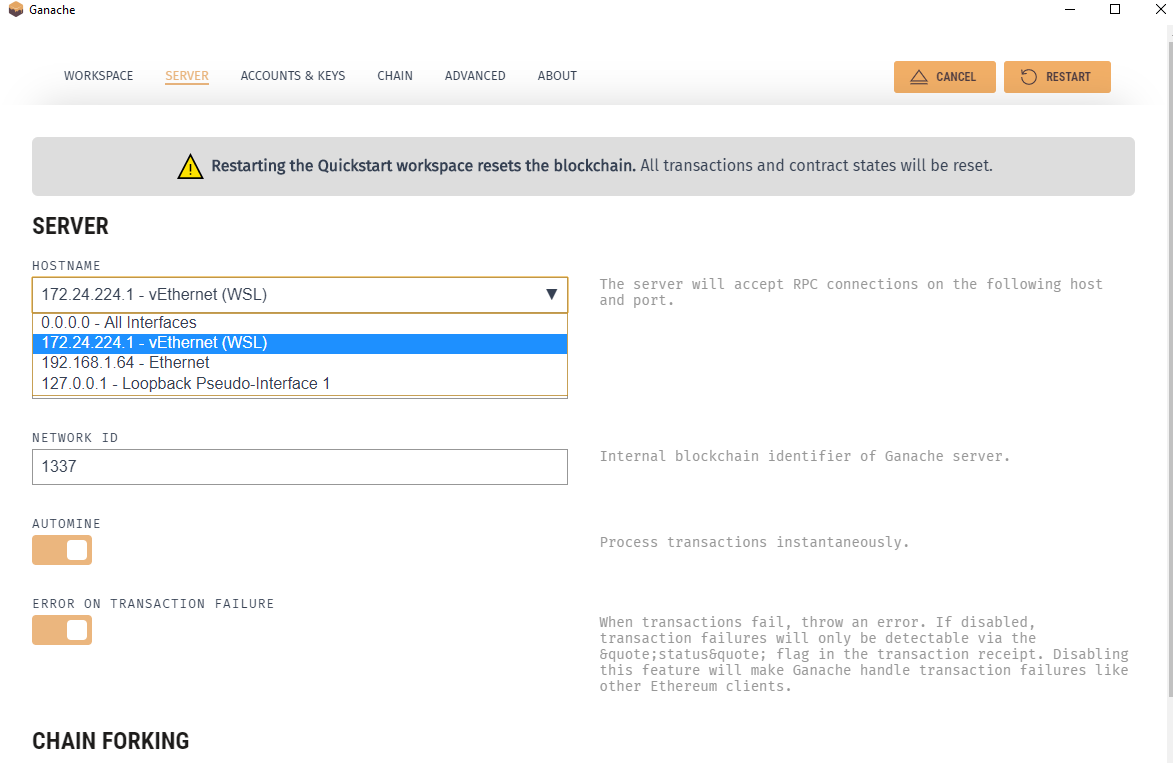
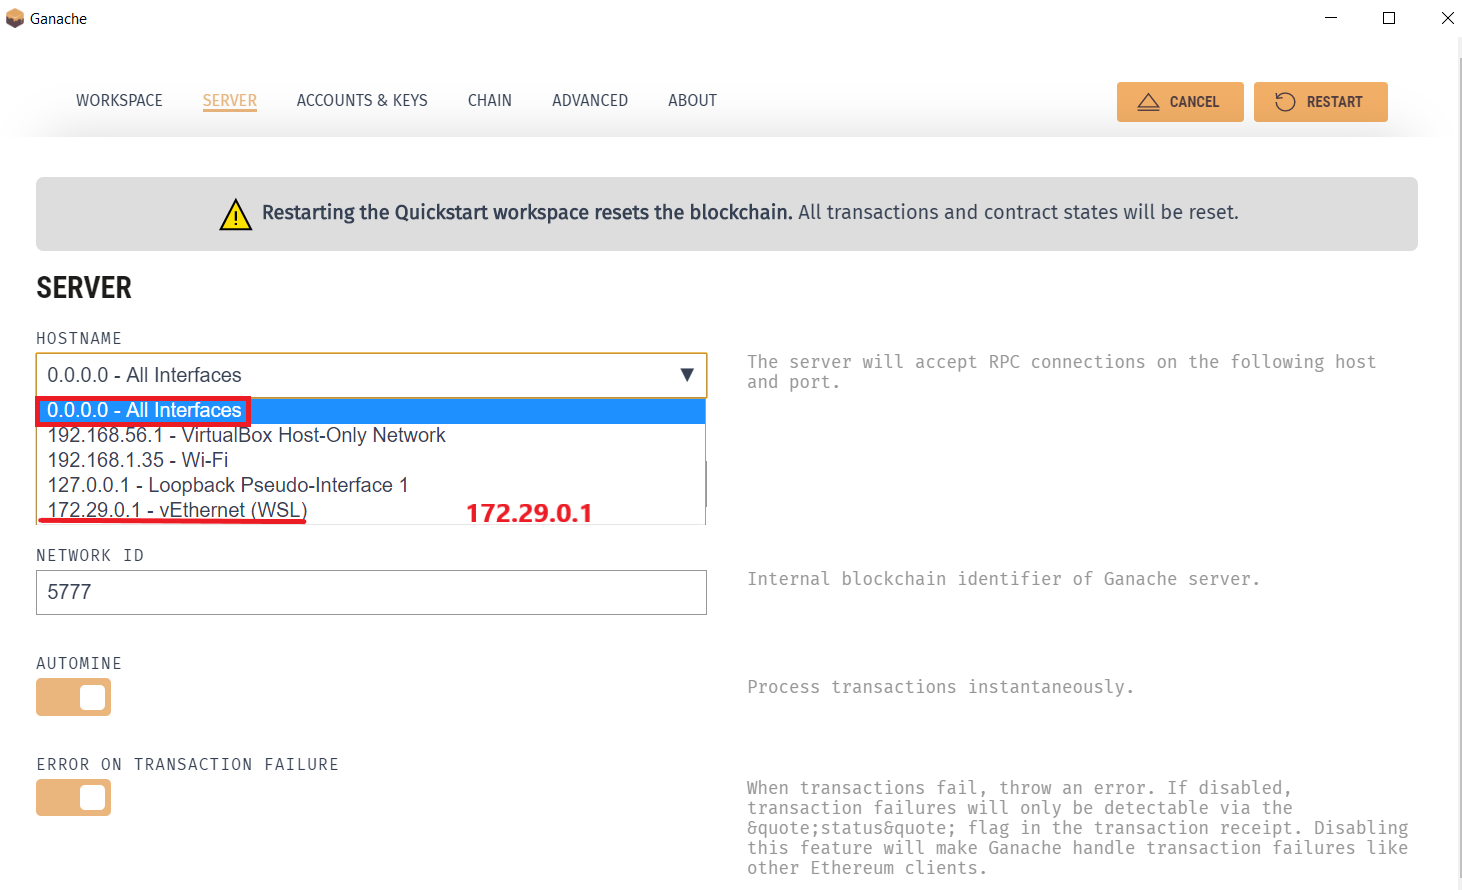
update chronological-updates ganache use with wsl

diff --git a/chronological-updates.md b/chronological-updates.md
@@ -1,27 +1,42 @@
 # Chronological Updates
 
-This file will contain all updates to sections. 
+This file will contain all updates to sections.
 
 # Lesson 5
+
 ## Windows, WSL, & Ganache
-- Per [this question](https://github.com/smartcontractkit/full-blockchain-solidity-course-js/discussions/34#discussioncomment-2846436), if you're using WSL, for the ganache UI you'll have to use a different endpoint. 
+
+- Per [this question](https://github.com/smartcontractkit/full-blockchain-solidity-course-js/discussions/34#discussioncomment-2846436), if you're using WSL, for the ganache UI you'll have to use a different endpoint.
 
 You have 4 options to fix this:
-1. Use the WSL endpoint on the ganache UI (this sometimes doesn't work)
+
+1. Use the WSL endpoint on the ganache UI
 2. Use `ganache` from the command line
 3. Use `ganache-cli` from the command line (not recommended)
 4. Just use `hardhat` from the command line (you'll have to use hardhat at some point anyways!)
 
 ### Using the WSL Endpoint
-On the Ganache UI, you can select a different hostname and connect to whatever IP you see. In the example below, you'd connect to `172.24.224.1`
+
+On the Ganache UI, you can select a different hostname and connect to whatever IP you see. In the example below, you'd connect to `172.29.0.1`
 
 ![img](./img/ganache-windows.png)
 
 You can also try to edit it by:
 
 1. Inside Ganache in the top-right corner tap on the gear icon (settings).
-2. Then in the server tab, change the HOSTNAME and select 0.0.0.0 - All Interfaces.
-3. Now replace your RPC Server URL inside the code with this latest URL that will be something like: HTTP://0.0.0.0.7545. Recheck this from Ganache.
+2. Then in the server tab, change the HOSTNAME and select `0.0.0.0 - All Interfaces`.
+3. Now replace your RPC Server URL inside the code with this latest URL that will be something like: http://172.29.0.1:7545. Recheck this by running this command:
+
+   `grep -m 1 nameserver /etc/resolv.conf | awk '{print $2}'`.
+
+**IF it gets stuck** at `"Deploying, please wait..."`, then you have to allow the connection for Ganache in `Windows Defender Firewall with Advanced Security`.
+
+![img](./img/ganache-firewall.png)
+
+1. Select Inbound Rules.
+2. Select Ganache, right click and go to Properties.
+3. Allow the connection and Apply.
+4. Repeat for the rest, if any.
 
 ### Using `ganache`
 
@@ -35,6 +50,7 @@ Keep this running in it's own terminal, and use the endpoint it gives you. To ki
 [See the discussion here](https://github.com/smartcontractkit/full-blockchain-solidity-course-js/discussions/34)
 
 ### Using `ganache-cli` from the command line.
+
 Or, optionally, you can install `ganache-cli` [as this user did](https://github.com/smartcontractkit/full-blockchain-solidity-course-js/discussions/39#discussioncomment-2854165).
 
 ```
@@ -63,8 +79,7 @@ yarn hardhat node
 
 Keep this running in it's own terminal, and use the endpoint it gives you. To kill it, press `CTRL` + `C`.
 
-
---------
+---
 
 # Lesson 6
 
@@ -84,7 +99,7 @@ As of `2.10.0` version of hardhat, when you first run `yarn hardhat` you'll get 
 
 👷 Welcome to Hardhat v2.10.0 👷
 
-? What do you want to do? … 
+? What do you want to do? …
 ❯ Create a JavaScript project
   Create a TypeScript project
   Create an empty hardhat.config.js
@@ -105,29 +120,32 @@ More information: https://github.com/smartcontractkit/full-blockchain-solidity-c
 
 ## Keepers Not Kicking Off Troubleshooting
 
-If your keepers are not kicking off, run through this checklist to find out why. 
+If your keepers are not kicking off, run through this checklist to find out why.
 
 1. Double check the subscription ID in your contract
-2. Double check the subscription is funded with enough LINK 
-3. Is `checkUpkeep` returning true?  
+2. Double check the subscription is funded with enough LINK
+3. Is `checkUpkeep` returning true?
 4. Can you call `performUpkeep` yourself? (If you can't the keeper can't!)
 
+---
 
--------
 # Lesson 14
 
 ## Math on NFT Chance Array
 
-The ```getBreedFromModdedRng()``` function in RandomIpfsNft.sol gets the math wrong.
+The `getBreedFromModdedRng()` function in RandomIpfsNft.sol gets the math wrong.
 
 line 104,
+
 ```solidity
 if (moddedRng >= cumulativeSum && moddedRng < cumulativeSum + chanceArray[i]) {
     return Breed(i);
 }
 cumulativeSum = cumulativeSum + chanceArray[i];
 ```
-needs to be changed to 
+
+needs to be changed to
+
 ```solidity
 if (moddedRng >= cumulativeSum && moddedRng < chanceArray[i]) {
     return Breed(i);
@@ -138,22 +156,25 @@ cumulativeSum = chanceArray[i];
 The chanceArray[] array already has a cumulative probability distribution, no need to keep adding cumulativeSum to it.
 
 According to the current algorithm:
+
 ```
 moddedRng produced is between 0 and 99
 chanceArray=[10,30,100]
 ```
+
 ```
 PUG is produced if moddedRng is between [0,10)  = span of 10
 SHIBA is produce if moddedRng is between [10,40) = span of 30
 BERNARD is produced if moddedRng is between [40,140] = span of 60 (since moddedRng<100)
 ```
+
 So the actual probabilities according to the current algo is
-``` [10%,30%,60%] ```
+`[10%,30%,60%]`
 and not
-``` [10%,20%,70%]```
- as would be expected from a proper cumulative probability distribution function.
- 
--------
+` [10%,20%,70%]`
+as would be expected from a proper cumulative probability distribution function.
+
+---
 
 # Lesson 15
 
@@ -161,7 +182,4 @@ and not
 
 - Remember if you are using gitpod then you cannot connect your local hardhat node with metamask. To resolve this you can use vs code or testnets instead of local node.
 
-
---------
-
-
+---
